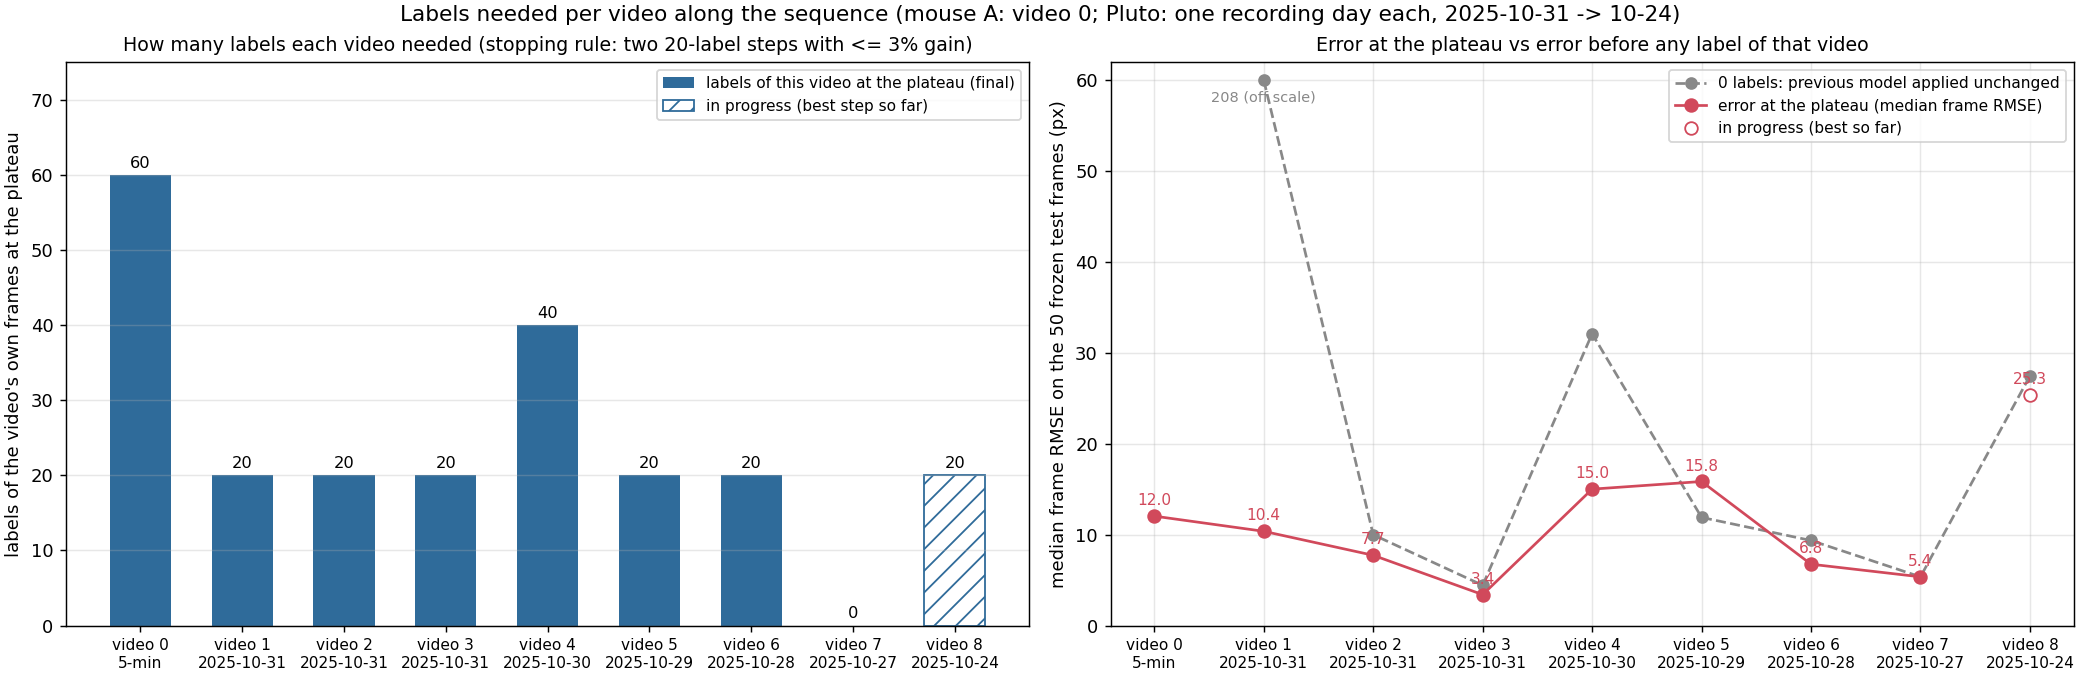
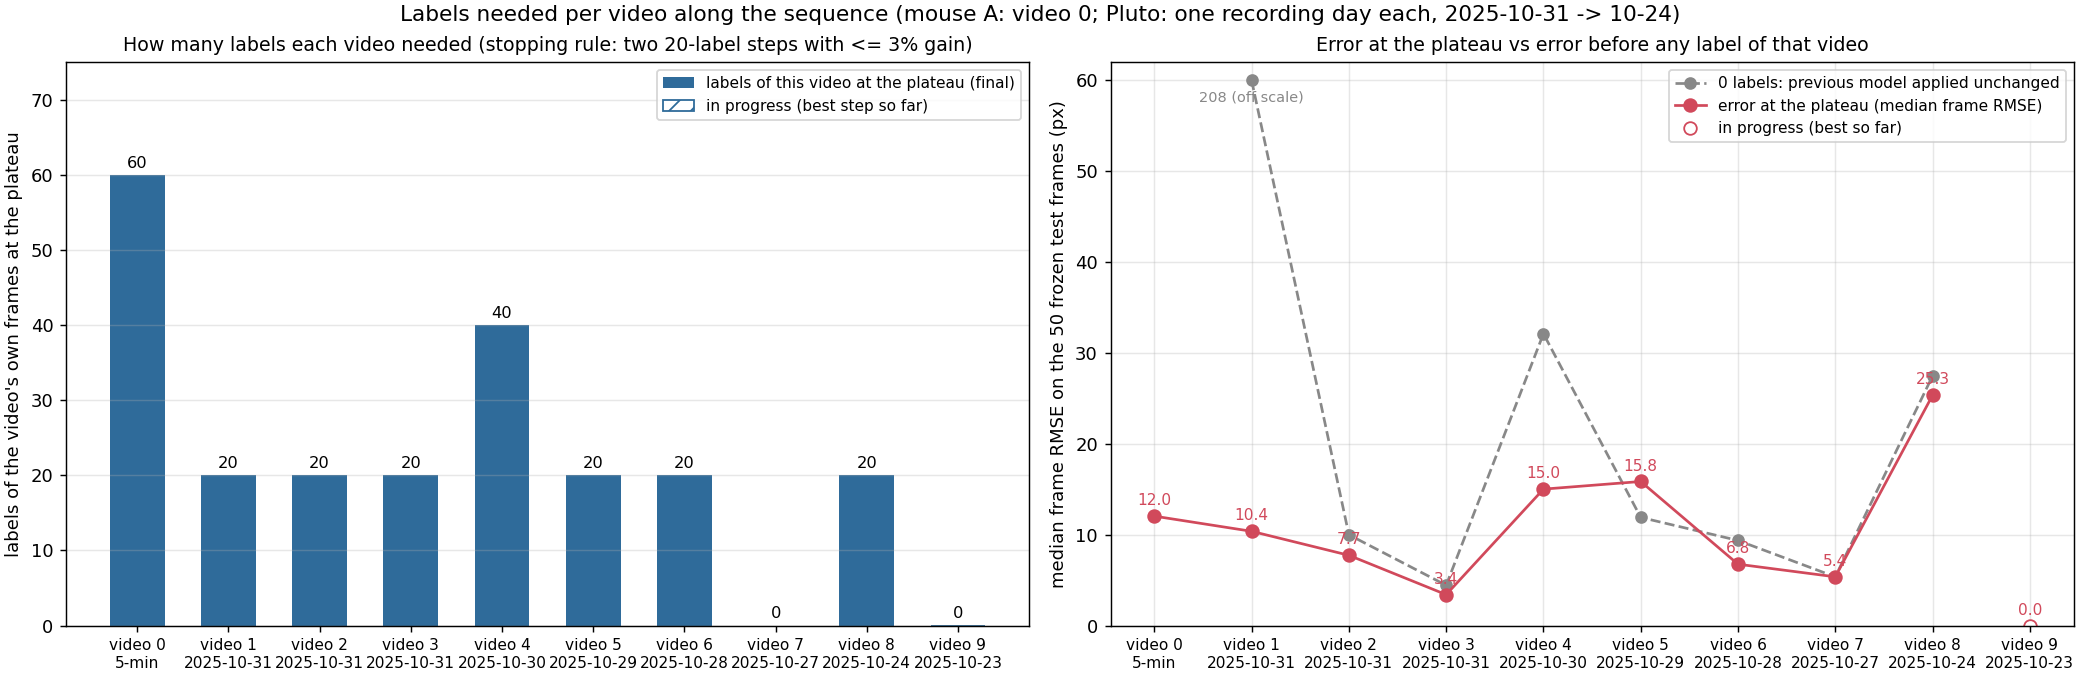
Video 8 finished at 20 labels (25.34 px); tag v0.9.8-video8-plateau; labels_to_plateau updated

diff --git a/README.md b/README.md
@@ -8,7 +8,7 @@ how many human labels are needed, and how few frames must a person correct, befo
 Zhiheng Li (University of Minnesota), with Kaiwen Sheng (Stanford). Raw videos, frames, labels, model weights and
 per-frame predictions stay local; git carries code, documentation and audited aggregate results.
 
-## Status (last updated 2026-09-30 13:30 CDT)
+## Status (last updated 2026-09-30 17:45 CDT)
 
 | what | state |
 |---|---|
@@ -20,7 +20,7 @@ per-frame predictions stay local; git carries code, documentation and audited ag
 | Finished | **fewer-labels study** (videos 0-5, step 1 retrained with 5 or 10 of its 20 labels, training set otherwise as at that time): 5 labels were enough only on videos 3 and 5; on videos 0, 1, 2 and 4, 5 or 10 labels fall short of 20 (video 4: 10 labels worse than none). 20 labels is the smallest batch that worked on every video; table in `v2_new_pupil_top_video_scaling/results/README.md` |
 | Finished | **video 6** (Pluto, 2025-10-28, v2 line continued): test set relabeled under v2 and frozen; 0 labels (video-5 model 631) = 9.36 px, 20 labels = 6.75 px (p90 11.2), 40 labels = 8.46 px, 60 labels = 10.68 px (p90 14.9): finished at **20 labels, 6.75 px** (rule fired at 60; user decision 2026-09-29). |
 | Finished | **video 7** (Pluto, 2025-10-27, v2 line): test set relabeled under v2 and frozen; 0 labels (video-6 model 711) = 5.36 px, 20 labels = 5.86 px, 40 labels = 5.84 px: finished at **0 labels, 5.36 px** - the video-6 model already fits this day (user decision 2026-09-29). |
-| In progress | **video 8** (Pluto, 2025-10-24, v2 line): test set relabeled under v2 and frozen; 0 labels (video-6 model 711) = 27.46 px, 20 labels = 25.34 px, 40 labels = 30.03 px (p90 ~50, 12-14% of frames > 50 px - a hard day, 3 days after video 7); 60 labels = 33.77 px: the plateau rule fires at **20 labels, 25.34 px** (12-16% of frames > 50 px at every step - this day is hard); batch04 popup held, user decision pending Cross-video curves now also show the 5 / 10-label subset models (open markers) |
+| Finished | **video 8** (Pluto, 2025-10-24, v2 line): test set relabeled under v2 and frozen; 0 labels (video-6 model 711) = 27.46 px, 20 labels = 25.34 px, 40 labels = 30.03 px (p90 ~50, 12-14% of frames > 50 px - a hard day, 3 days after video 7); 60 labels = 33.77 px: finished at **20 labels, 25.34 px** (rule fired at 60; 12-16% of frames > 50 px at every step - this day is hard). Next: video 9 (2025-10-23), test set being labeled (pre-labels from the video-6 model 711) Cross-video curves now also show the 5 / 10-label subset models (open markers) |
 | v3 (paused) | `v3_pupil_vedio_scaling/`: videos linked; labelling guide v0.2 records the 2026-09-29 decision (Kaiwen Sheng): the light band around the black core is pupil (fur / eyelash occlusion, IR-LED lightening), so the labeler's outer-edge labels are the reference and the guide's core-based procedure is withdrawn; v3 resumes after the procedure is re-derived from the human labels |
 | Blink / area analysis | per-video time series in `<video>/results/blink_area_analysis/`; across videos (`v2_new_pupil_top_video_scaling/results/blink_area_consistency.png`): 4-point area better on 7 of 8 test sets; lowest pupil confidence < ~0.2 separates all 16 human closed-eye frames (the production 0.6 cut flags ~half of open frames); area correlates with eye opening in every video |
 | Test-set only | videos 5-8 (2025-10-29 / 28 / 27 / 24): frozen test sets scored by every model so far; videos 9 (10-23) and 10 (10-22): test sets being labeled |

diff --git a/v2_new_pupil_top_video_scaling/results/README.md b/v2_new_pupil_top_video_scaling/results/README.md
@@ -20,7 +20,7 @@ snapshot with the best validation mAP after the first learning-rate drop (epochs
 | 5 `5_20251029_Pluto_spont_1` | mouse B, 19.9 min, 2025-10-29 | 360 (videos 0-3 + 40 of video 4 run 2) | convention v2: 11.90 / 15.85 / 16.58 / – / – / – | **20 labels** (user decision: the median rule fires at 0, but the 0-label model is > 50 px off on 12% of test frames; 20 labels remove all of them) | 15.85 px |
 | 6 `6_20251028_Pluto_spont_1` | mouse B, 19.9 min, 2025-10-28 | 380 (videos 0-3 + 40 of video 4 + 20 of video 5) | convention v2: 9.36 / 6.75 / 8.46 / 10.68 | **20 labels** (rule fired at 60; user decision 2026-09-29) | 6.75 px |
 | 7 `7_20251027_Pluto_spont1` | mouse B, 19.9 min, 2025-10-27 | 400 (videos 0-3 + 40 of video 4 + 20 of video 5 + 20 of video 6) | convention v2: 5.36 / 5.86 / 5.84 | **0 labels** (rule fired at 40; user decision 2026-09-29) | 5.36 px |
-| 8 `8_20251024_Pluto_spont1` | mouse B, 19.9 min, 2025-10-24 | 400 (videos 0-3 + 40 of video 4 + 20 of video 5 + 20 of video 6) | convention v2: 27.46 / 25.34 / 30.03 / 33.77 | **20 labels** (rule fired at 60; user decision pending) | 25.34 px |
+| 8 `8_20251024_Pluto_spont1` | mouse B, 19.9 min, 2025-10-24 | 400 (videos 0-3 + 40 of video 4 + 20 of video 5 + 20 of video 6) | convention v2: 27.46 / 25.34 / 30.03 / 33.77 | **20 labels** (rule fired at 60; user decision 2026-09-30) | 25.34 px |
 
 `labels_to_plateau.png` / `labels_to_plateau.csv` (2026-09-30): the plateau point of every video in the sequence as one figure - labels needed (left) and the error at the plateau vs the 0-label error (right); `scripts/plot_labels_to_plateau.py`. The csv is the table above in machine-readable form and is updated when a video finishes.
 

diff --git a/CHANGELOG.md b/CHANGELOG.md
@@ -15,6 +15,7 @@ Important changes (a video finished, a protocol or label-convention change, a ne
 
 | tag | date | what it marks |
 |---|---|---|
+| `v0.9.8-video8-plateau` | 2026-09-30 | Video 8 (2025-10-24, v2 line) finished: plateau at 20 labels, 25.34 px (40: 30.03, 60: 33.77; 12-16% of frames > 50 px at every step); labels_to_plateau figure added |
 | `v0.9.7-video7-zero-labels` | 2026-09-29 | Video 7 (2025-10-27, v2 line) finished: the plateau rule fires at 0 labels - the video-6 model scores 5.36 px unchanged (20: 5.86, 40: 5.84); first video that needed no labels of its own |
 | `v0.9.6-video6-plateau` | 2026-09-29 | Video 6 (2025-10-28, v2 line) finished: plateau at 20 labels, 6.75 px (40: 8.46, 60: 10.68); pupil-definition decision recorded (light band = pupil) |
 | `v0.9.5-v3-guide-v0.1` | 2026-09-28 | v3 labelling guide v0.1 (`v3_pupil_vedio_scaling/docs/LABELING_GUIDE.md`): pupil = flat black core, ellipse extremes, anatomy-not-optics principle; AI procedure with numbers + human instructions with 12 figures; written from a continuous read of videos 0-15 |
